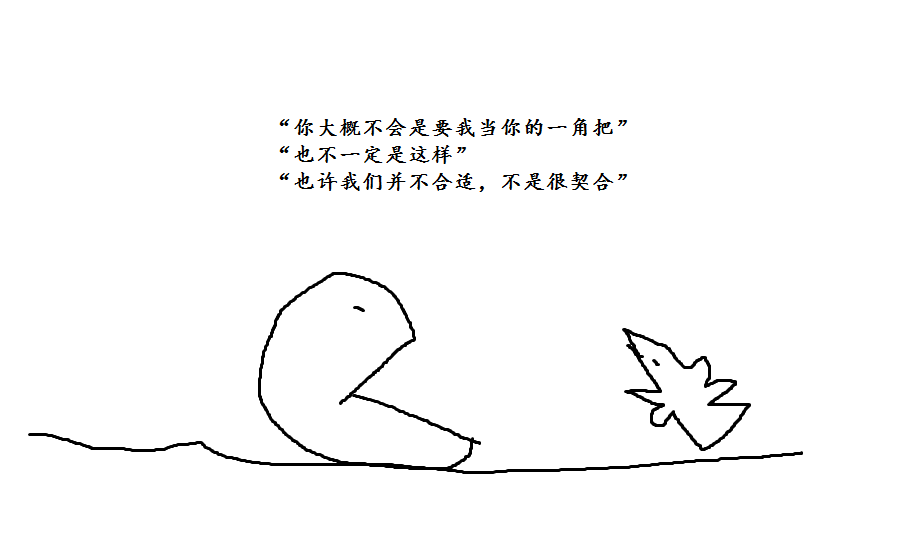
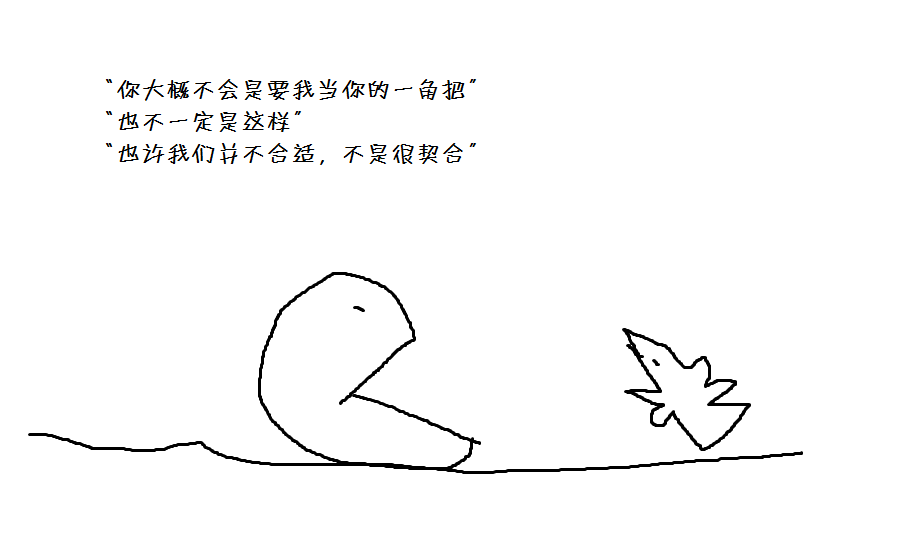
字体修改和提交

Changed region(s): [[0.1217, 0.1214, 0.7, 0.3339], [0.5478, 0.3036, 0.7, 0.3643], [0.4565, 0.1214, 0.5174, 0.1821]]

diff --git a/index.html b/index.html
@@ -15,32 +15,35 @@
     <img src="1.png" alt="" height="400" width="400" hspace="100">
     </div>
     <div>
-    <img src="2.png" alt="" height="400" width="400" hspace="100">
-</div>
-<div></div>
-    <img src="3.png" alt="" height="400" width="400" hspace="100">
-</div>
-<div>
-    <img src="5.png" alt="" height="400" width="400" hspace="100">
-</div>
+        <img src="2.png" alt="" height="400" width="400" hspace="100">
+    </div>
     <div>
-    <img src="6.png" alt="" height="400" width="400" hspace="100">
-</div>
+        <img src="3.png" alt="" height="400" width="400" hspace="100">
+    </div>
     <div>
-    <img src="7.png" alt="" height="400" width="400" hspace="100">
-</div>
+        <img src="5.png" alt="" height="400" width="400" hspace="100">
+    </div>
     <div>
-    <img src="10.png" alt="" height="400" width="400" hspace="100">
-</div>
+        <img src="6.png" alt="" height="400" width="400" hspace="100">
+    </div>
     <div>
-    <img src="11.png" alt="" height="400" width="400" hspace="100">
-</div>
+        <img src="7.png" alt="" height="400" width="400" hspace="100">
+    </div>
     <div>
-    <img src="12.png" alt="" height="400" width="400" hspace="100">
-</div>
+        <img src="8.png" alt="" height="400" width="400" hspace="100">
+    </div>
+    <div>
+        <img src="10.png" alt="" height="400" width="400" hspace="100">
+    </div>
+    <div>
+        <img src="11.png" alt="" height="400" width="400" hspace="100">
+    </div>
+    <div>
+        <img src="12.png" alt="" height="400" width="400" hspace="100">
+    </div>
     <div>
         <img src="13.png" alt="" height="400" width="400" hspace="100">
     </div>
-    <h3 align="center">未完待续。。。。。。。。。</h3>
+    <h3 align="center">未完待续。。。。</h3>
 
 </body>
